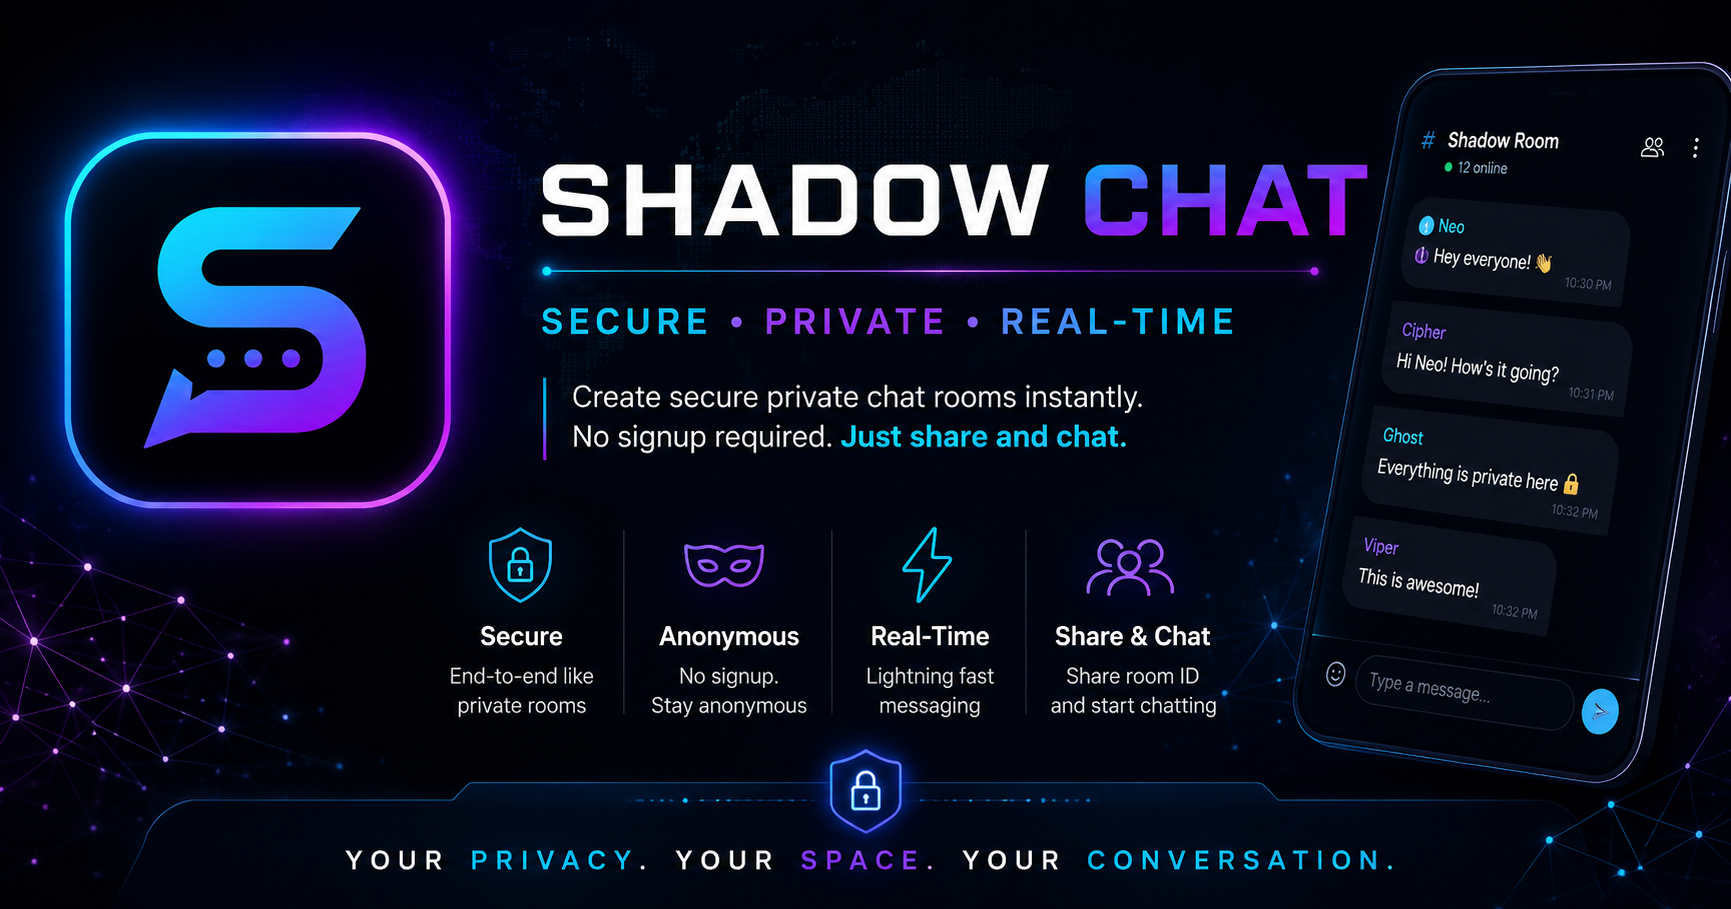
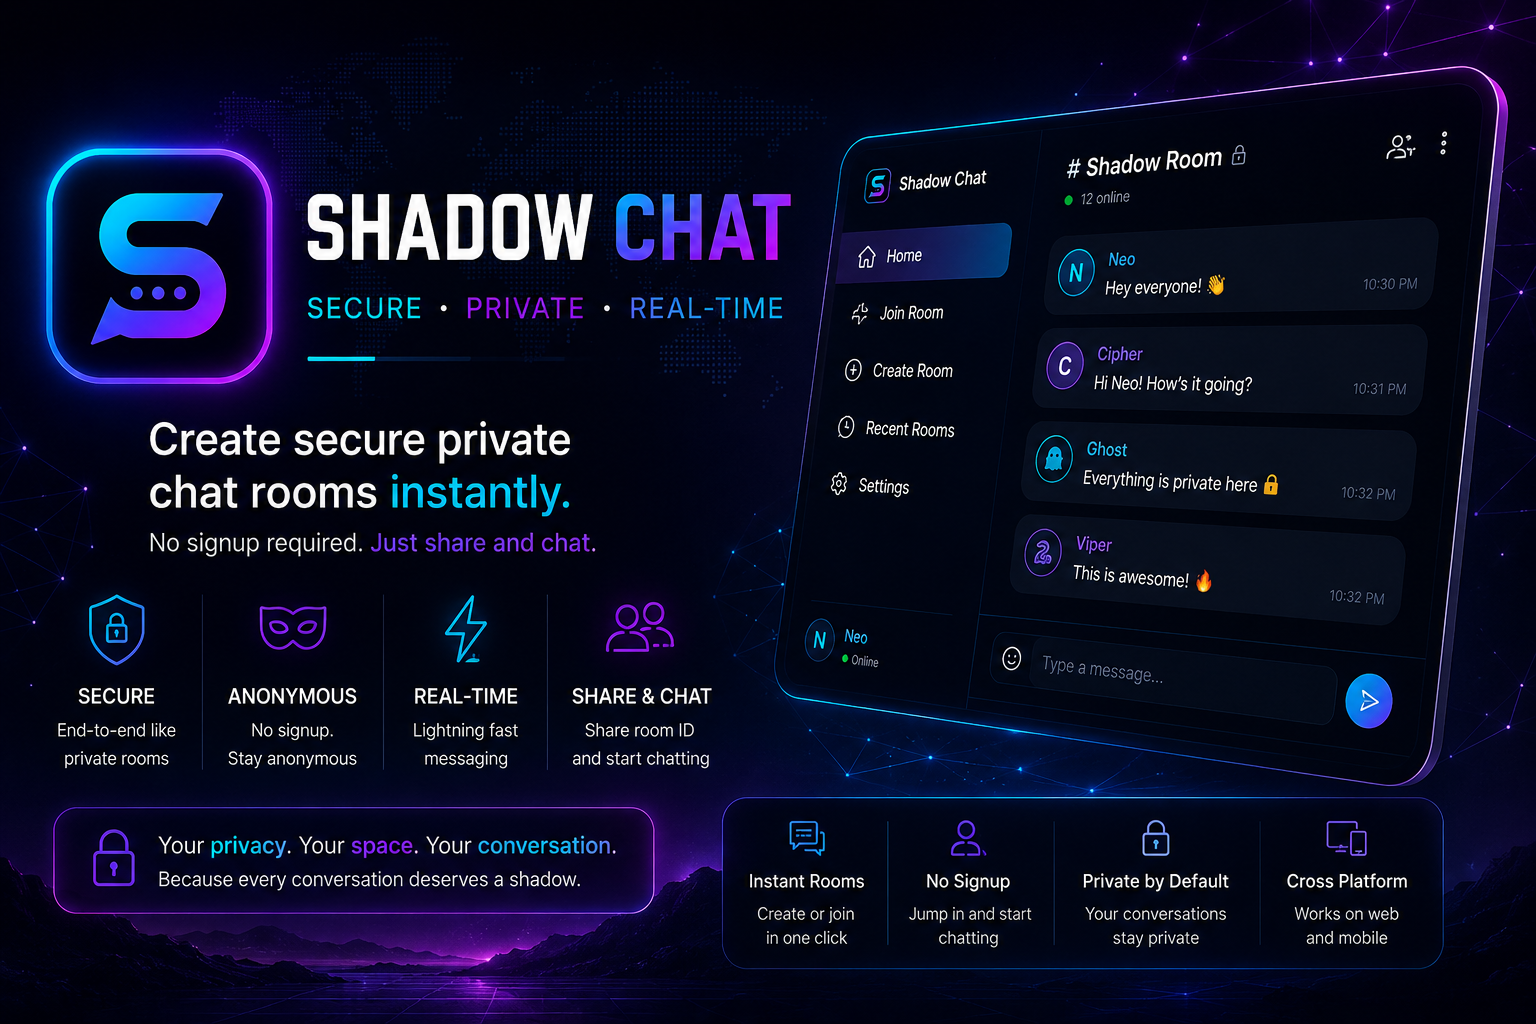
Added Open Graph image

diff --git a/client/index.html b/client/index.html
@@ -37,13 +37,17 @@
         content="#0b1220"
       />
       <!-- Open Graph -->
+      <meta property="og:site_name" content="Shadow Chat" />
+      <meta property="og:locale" content="en_US" />
       <meta property="og:title" content="Shadow Chat | Secure Private Chat Rooms" />
 
       <meta
         property="og:description"
         content="Create secure private chat rooms instantly. Fast, anonymous and real-time."
       />
-
+      <link
+        rel="canonical"
+        href="https://shadow-chat-cyan.vercel.app/" />
       <meta
         property="og:image"
         content="/og-image.png"
@@ -77,9 +81,12 @@
 
       <meta
         name="twitter:image"
-        content="/og-image.png"
+        content="https://shadow-chat-cyan.vercel.app/og-image.png"
       />
-
+      <meta
+        property="og:image"
+        content="https://shadow-chat-cyan.vercel.app/og-image.png"
+      />
     <title>Shadow Chat | Secure Private Chat Rooms</title>
   </head>
   <body>